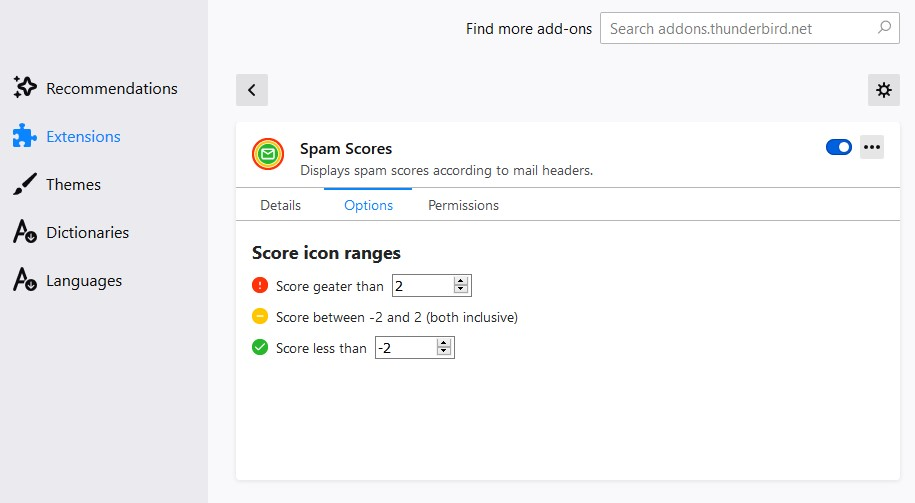
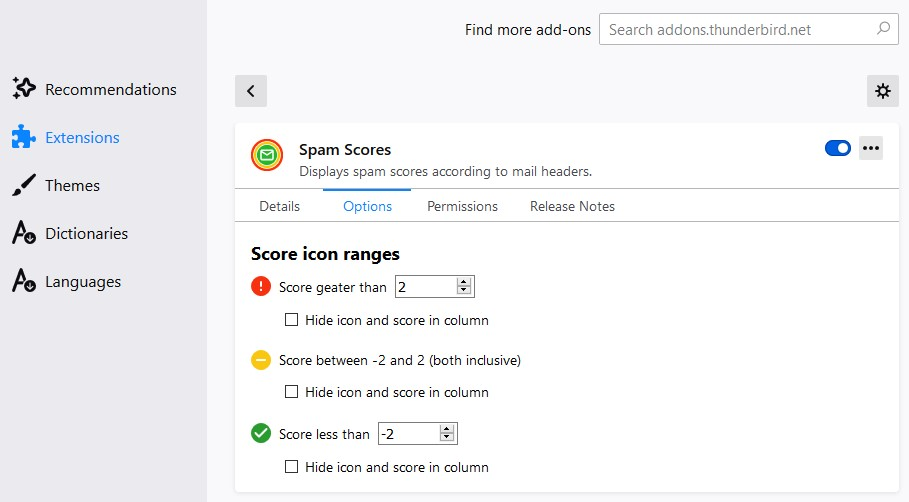
update readme

diff --git a/README.md b/README.md
@@ -32,7 +32,7 @@ To test versions that have not yet been published, you can always download the f
 
 ![Settings Screenshot](https://raw.githubusercontent.com/friedPotat0/Spam-Scores/master/images/screenshot_settings.jpg)
 
-The default icon ranges can be changed in the add-on settings in Thunderbird.
+The default icon ranges can be changed in the add-on settings in Thunderbird. Furthermore individual score ranges can be completely hidden. For example, this can be used to show the icon and score only for mails that are spam. The detailed rules of any opened mail can still be accessed regardless of this setting.
 
 ## Translations
 
